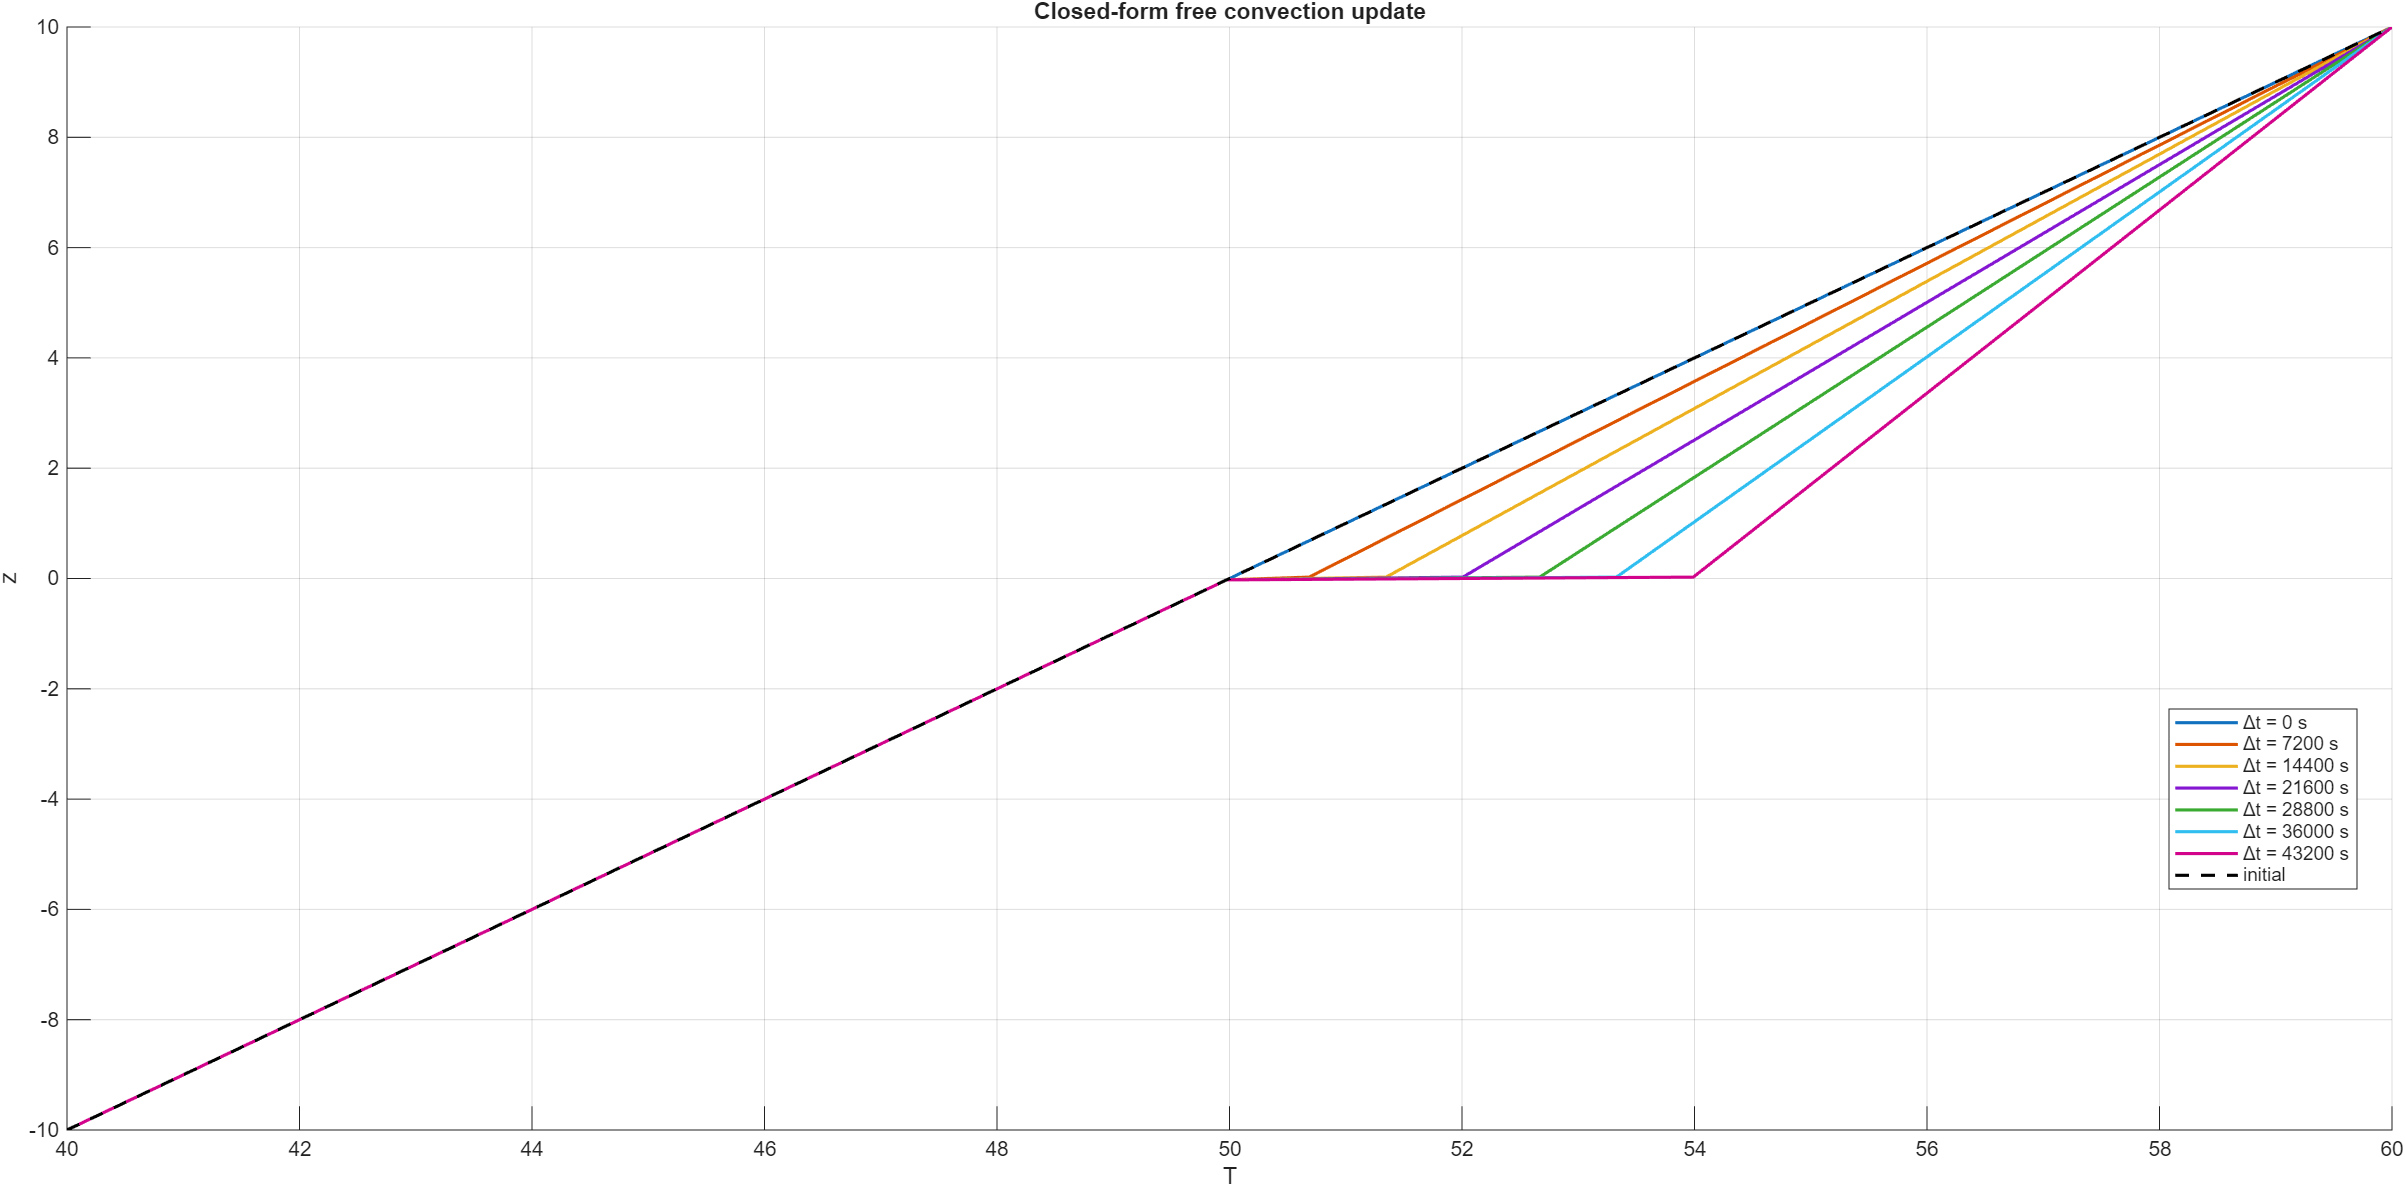
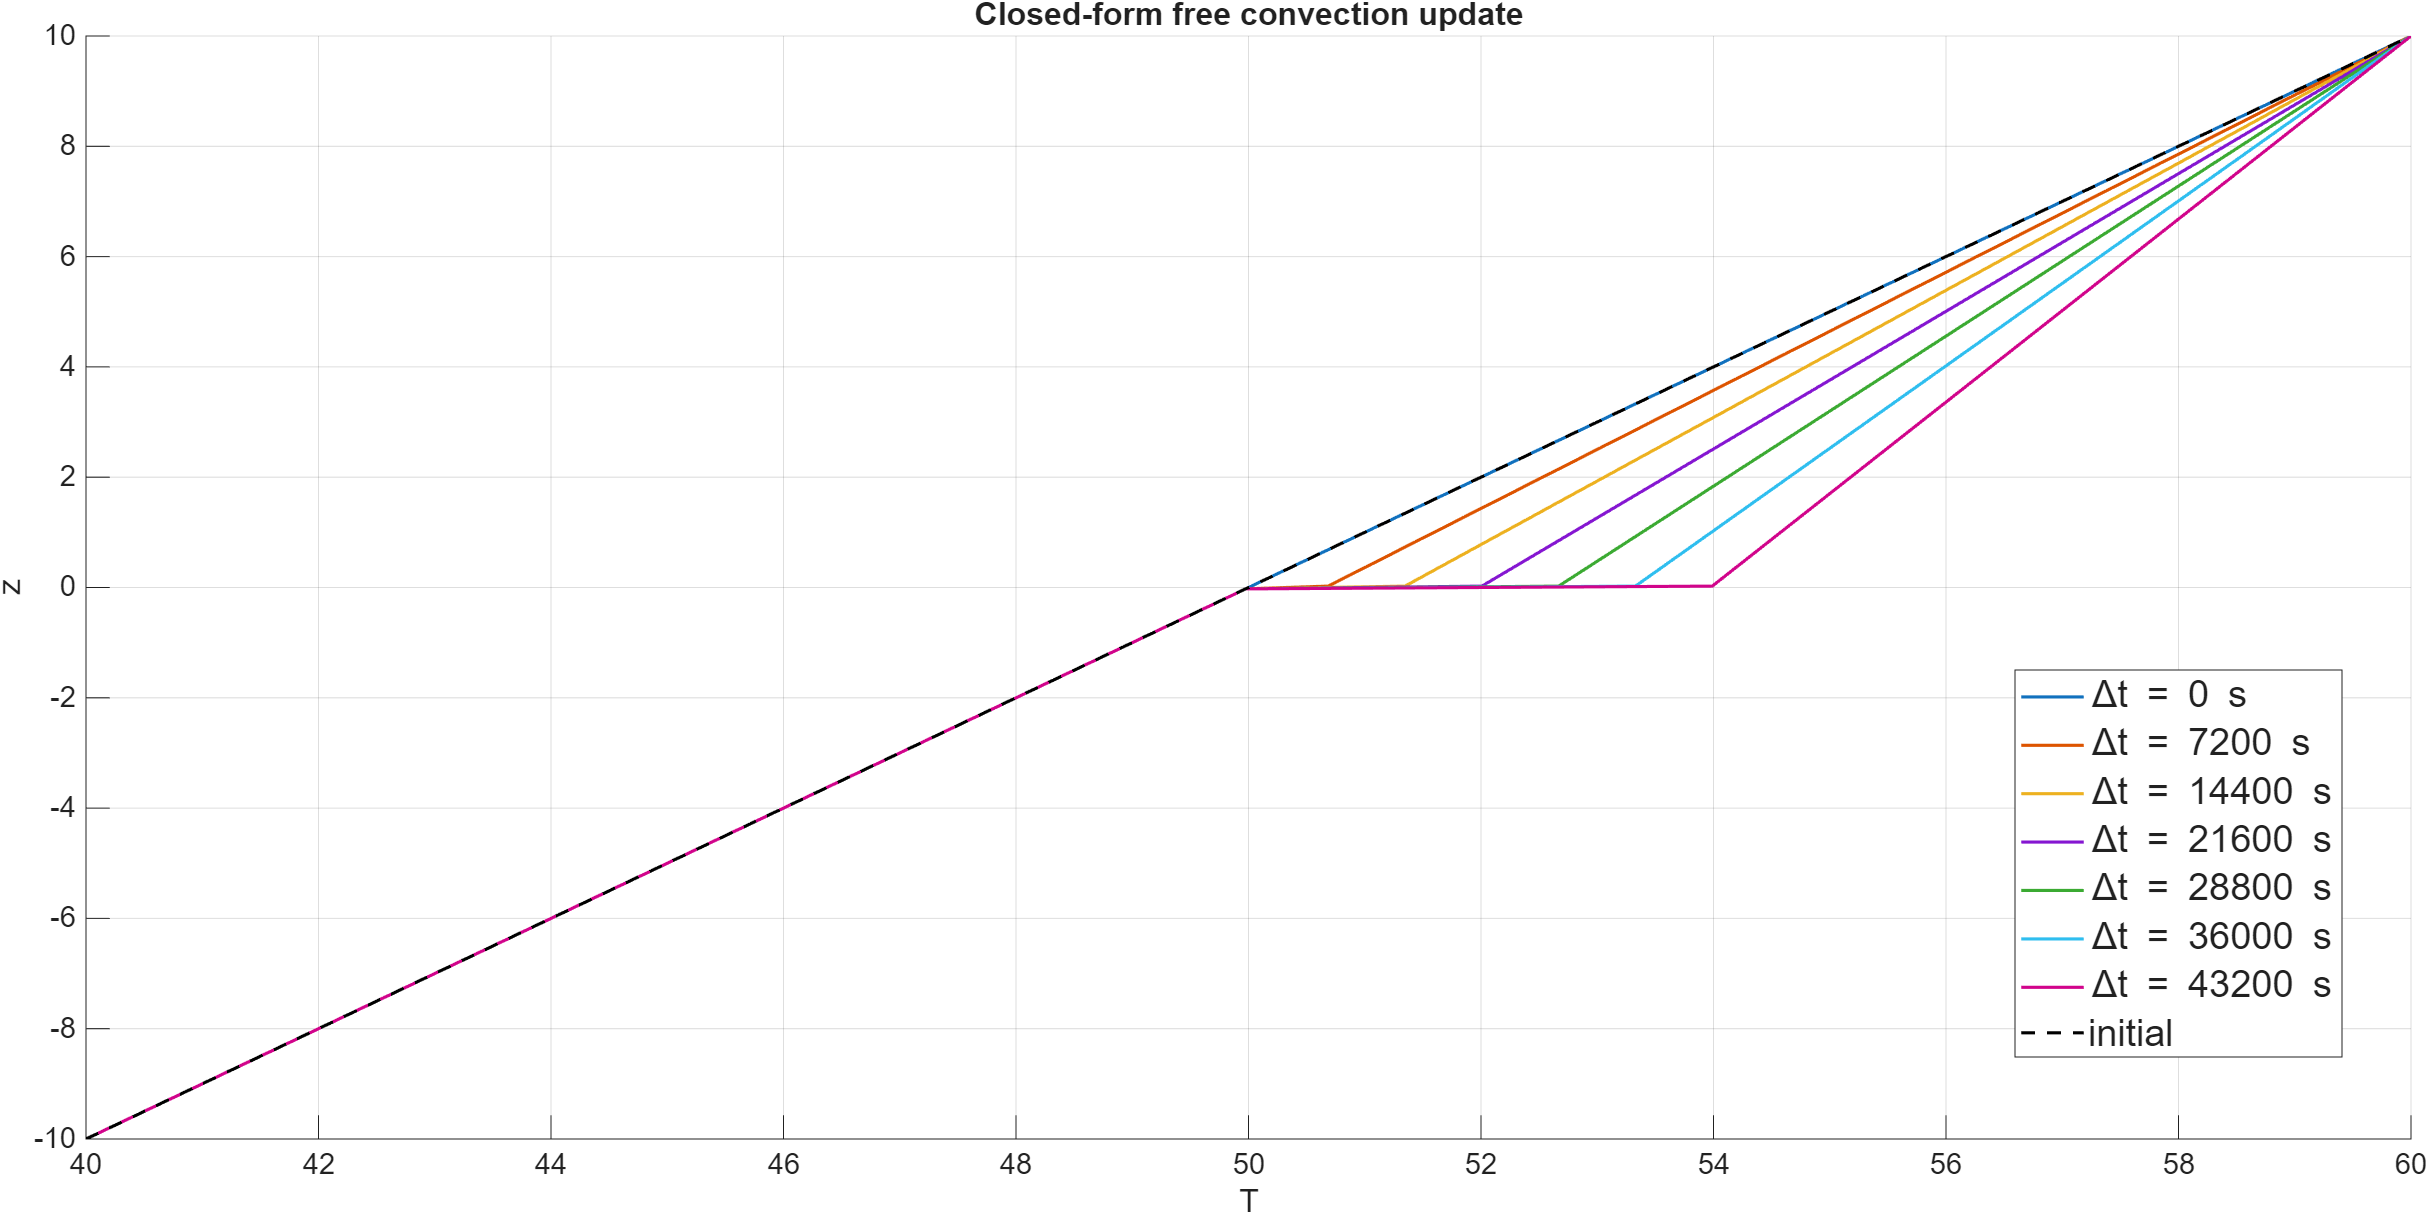
added comparison for free convection with closed form

diff --git a/code/scenario_1_freeConv/free_convection_exemplary_calc.m b/code/scenario_1_freeConv/free_convection_exemplary_calc.m
@@ -5,9 +5,9 @@ clear; clc; close all;
 z = linspace(-10,10,400)';   % [m]
 
 %% Initial temperature profile
-<<<<<<< Updated upstream
+
 T0 = 50+z;                   % arbitrary linear profile
-=======
+
 T0 = 50 + z;                         % arbitrary linear profile
 %% Concave initial temperature profile with fixed boundary values
 c = 0.08;     % curvature strength (>0 => concave)
@@ -26,7 +26,7 @@ rho_w = 997.6;        % [kg/m^3]
 cp_w  = 4.177;         % [kJ/(kg*K)]
 lambda_w = 0.6081;    % [W/(m*K)]
 alpha = lambda_w / (rho_w * cp_w);   % [m^2/s]
->>>>>>> Stashed changes
+
 
 %% Time steps to visualize
 dt_list = [0,1,2,3,4,5,6]*7200;   % [s]
@@ -39,13 +39,13 @@ figure; hold on; grid on;
 for dt = dt_list
     T = T0;
 
-<<<<<<< Updated upstream
+
     % apply update only in mixing region z ∈ [0,10]
-=======
+
     % ------------------------------------------------------------
     % (1) Free convection operator update (Schäfer-consistent)
     % ------------------------------------------------------------
->>>>>>> Stashed changes
+
     ids = (z >= 0 & z <= 10);
     
     Tin  = 60;      % [°C] inlet temperature
@@ -57,10 +57,10 @@ for dt = dt_list
     Tmix = T(ids);
     zloc = z(ids);
 
-<<<<<<< Updated upstream
+
     T(ids) = 60 + ...
              (z(ids) - 10)* (1 - 9.2e-6 * dt);
-=======
+
     
     % Mixing length
     L = z_mix - z_in;
@@ -93,12 +93,18 @@ for dt = dt_list
     if enableDiffusion
         T = diffuse_dirichlet_explicit(T, alpha, dz, dt, T_left, T_right);
     end
->>>>>>> Stashed changes
+
 
     plot(T, z, 'LineWidth', 1.5);
 end
 plot(T0, z, 'k--', 'LineWidth', 1.5);
-xlabel('T');
-ylabel('z');
+
+xlabel('T', 'FontSize', 18);
+ylabel('z', 'FontSize', 18);
+title('Closed-form free convection update', 'FontSize', 20);
 legend(["Δt = " + string(dt_list) + " s",'initial'], 'Location','best');
 title('Closed-form free convection update');
+legend(["\Deltat = " + string(dt_list) + " s",'initial'], ...
+       'Location','best', 'FontSize', 18);
+
+set(gca, 'FontSize', 14);   % tick labels
